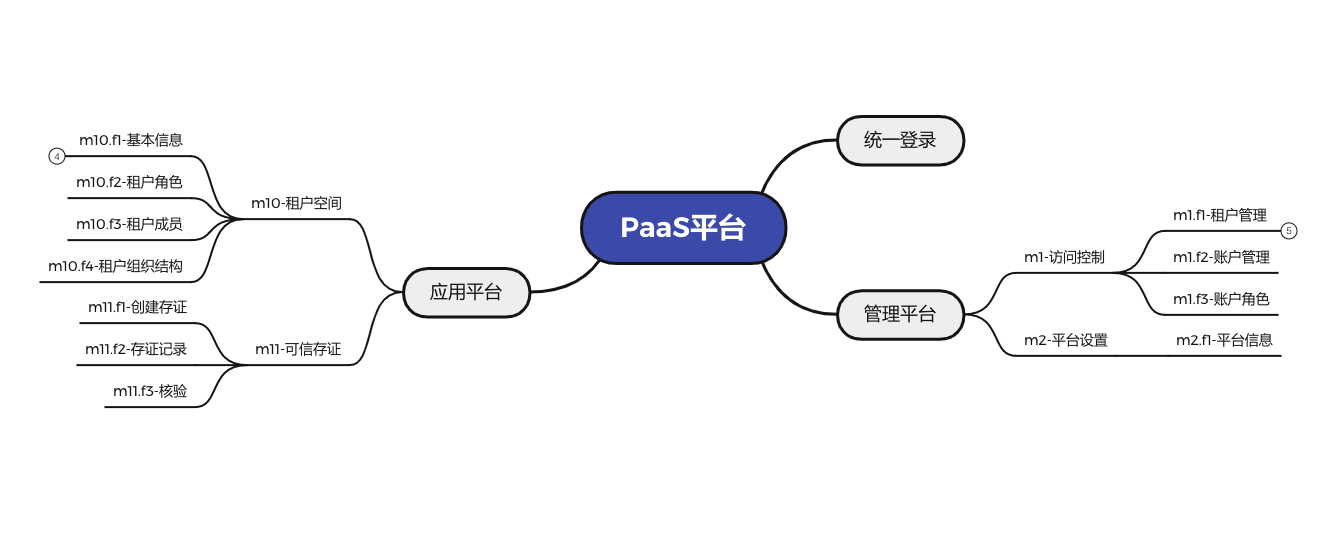
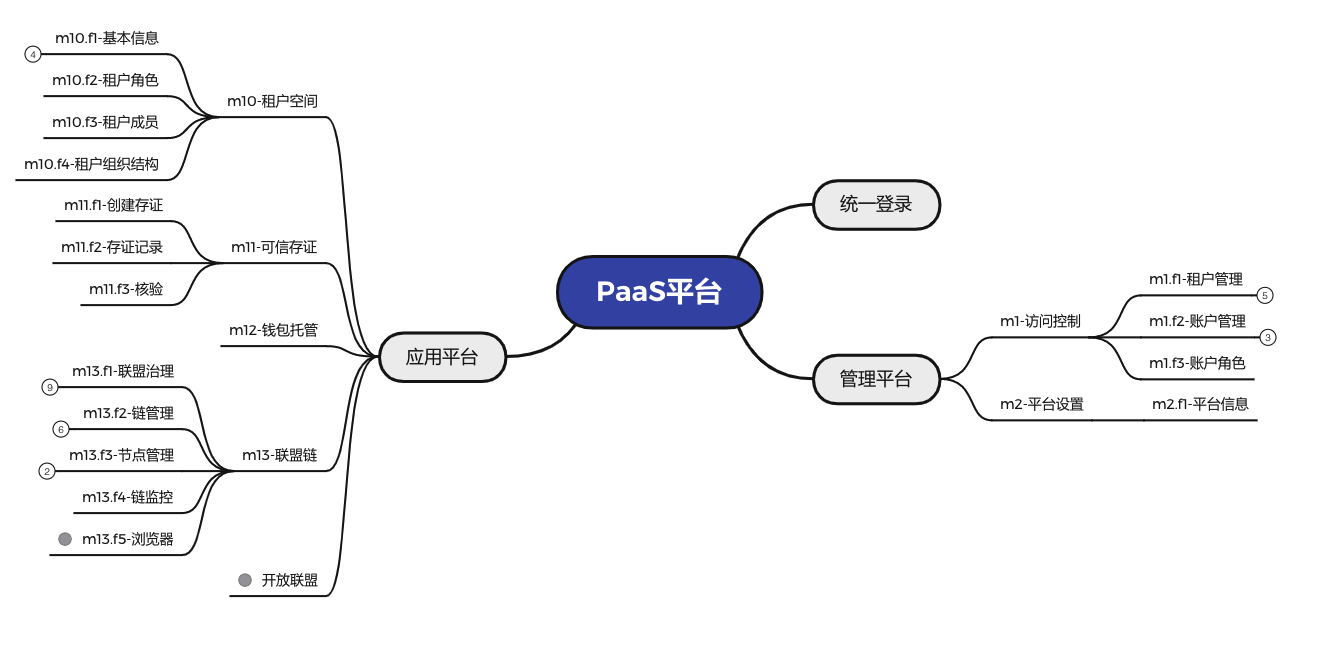
docs: init baas service

diff --git a/docs/qilin-baas/index.md b/docs/qilin-baas/index.md
@@ -1,0 +1,81 @@
+# Qilin-BaaS 联盟链服务
+
+## 一、设计概述
+
+联盟链服务提供链服生态中联盟治理，链与节点管理与监控的基础服务，给客户提供自建底层区块链及节点的能力，是链服平台中所有区块链服务都会依赖的核心服务。
+
+### 功能概述
+
+系统主要功能包括：
+
+- 联盟治理：
+    - 联盟管理
+    - 创建联盟
+    - 加入联盟
+
+- 链管理：
+    - 链列表
+    - 创建链
+    - 导入链与节点
+
+- 节点管理：
+    - 节点列表
+    - 创建节点
+
+- 链监控：
+
+- 浏览器：
+
+![联盟链服务功能列表](../../images/qilin/baas/qilin-baas-feature.jpg)
+
+使⽤者包括：
+
+- 链服平台中所有区块链服务
+
+### ⾮功能约束
+
+……系统未来预计⼀年⽤户量达到……， ⽇订单量达到……， ⽇PV达到……， 图⽚数量达到 ……。
+
+1. 查询性能⽬标：平均响应时间<300ms，95%响应时间<500ms，单机TPS>100； 2. 下单性能⽬标：平均响应时间<800ms，95%响应时间<1000ms，单机TPS>30；
+
+3. ……性能⽬标：平均响应时间<800ms，95%响应时间<1000ms，单机TPS>30；
+
+4. 系统核⼼功能可⽤性⽬标：>99.97%；
+
+5. 系统安全性⽬标：系统可拦截…… 、……、……攻击， 密码数据散列加密， 客户端数据 HTTPS加密，外部系统间通信对称加密；
+
+6. 数据持久化⽬标：>99.99999%。
+
+## 二、详细设计
+
+系统上线时预计部署在公司标准K8S集群中，包含2个deployment服务，1个job服务，占用5～7个pod资源，RDS-MYSQL中占用1个数据库，RDS-REDIS中占用1个数据库，部署2个联盟⼦系统，和链服生态系统中的账户服务交互，用户部署链时会使用外部第三⽅云服务商（阿里云、华为云、AWS）的云服务器服务。
+
+### 系统架构
+
+![联盟链服务系统架构图](../../images/qilin/baas/qilin-baas.png)
+
+### 最简服务流程（MVP）
+
+```
+1. tenant admin 发起创建一个联盟
+2. tenant admin 输入待导入链的基本属性信息，一键导入链及其节点
+```
+
+### 创建联盟场景系统流程
+
+tenant admin 发起创建一个联盟（baas aggr CreateUnion）
+
+```
+1.1 获取 tenant admin 企业认证信息（iam service ListTenantsKYC），确保企业已实名认证
+1.2 创建联盟信息（baas service CreateUnion）
+```
+
+### 导入链与节点场景系统流程
+
+tenant admin 输入待导入链的基本属性信息，一键导入链及其节点
+
+```
+2.1 获取所支持链的种类，及其导入时需要提交的基本信息
+2.2（第一步）选择链，填写所需的基本信息（baas aggr ImportChain）
+2.3（第二步）
+```

diff --git a/index.rst b/index.rst
@@ -33,21 +33,32 @@ Qilin将区块链应用开发标准化，按照部署、配置、开发智能合
 账户服务
 >>>>>>>>>>>>>>>>>>>>>>>>>>>>>>>>>>>>>>>>>>>>>>>>>>
 `Qilin-IAM <./docs/qilin-iam/index.html>`_
+账户服务提供链服生态中用户、租户、认证、授权的基础服务，不是独立的业务产品，是链服平台中所有其他业务都会依赖的核心服务。
+
+
+联盟链服务
+>>>>>>>>>>>>>>>>>>>>>>>>>>>>>>>>>>>>>>>>>>>>>>>>>>
+`Qilin-BaaS <./docs/qilin-baas/index.html>`_
+联盟链服务提供链服生态中联盟治理，链与节点的管理与监控的基础服务，给客户提供自建底层区块链及节点的能力，是链服平台中所有区块链服务都会依赖的核心服务。
+
 
 钱包服务
 >>>>>>>>>>>>>>>>>>>>>>>>>>>>>>>>>>>>>>>>>>>>>>>>>>
 `Qilin-Wallet <./docs/qilin-wallet/index.html>`_
 钱包服务给用户提供钱包密钥托管服务及代理签名服务。用户可以轻松的调用“创建钱包”或者“批量创建钱包”的接口以获取钱包地址，钱包的私钥将被托管在本服务中。使用托管的钱包发送交易或其他操作时，可由系统进行代理签名。
 
+
 交易服务
 >>>>>>>>>>>>>>>>>>>>>>>>>>>>>>>>>>>>>>>>>>>>>>>>>>
 `Qilin-Transaction <./docs/qilin-transaction/index.html>`_
 交易服务提供给用户往区块链调用合约的http接口。本服务提供给用户两类接口，一类是通用的调用合约的接口，用户需要传入合约地址，被调用的合约方法名，以及调用参数来发送交易；另一类接口是定制的调用合约的接口，将常用的合约的方法抽象出来，用户无需关心具体被调用的方法名，仅需要传入合约地址以及定制的参数即可完成对合约方法的调用。
 
+
 可信存证服务平台
 >>>>>>>>>>>>>>>>>>>>>>>>>>>>>>>>>>>>>>>>>>>>>>>>>>
 `Qilin-Evidence <./docs/qilin-evidence/index.html>`_
 存证服务提供给用户提供可信数据存储、核验服务。使用本服务的租户必须通过企业4要素实名认证，存证数据将被存储在域乎可信存证链上，上链时间根据国标《电子数据存证技术规范》提供可信时间戳。
+
 
 溯源服务平台
 >>>>>>>>>>>>>>>>>>>>>>>>>>>>>>>>>>>>>>>>>>>>>>>>>>
@@ -65,6 +76,7 @@ Qilin将区块链应用开发标准化，按照部署、配置、开发智能合
 
    ./docs/qilin/quick-start.md
    ./docs/qilin-iam/index.md
+   ./docs/qilin-baas/index.md
    ./docs/qilin-wallet/index.md
    ./docs/qilin-transaction/index.md
    ./docs/qilin-evidence/index.md

diff --git a/docs/qilin-evidence/index.md b/docs/qilin-evidence/index.md
@@ -2,7 +2,7 @@
 
 ## 一、设计概述
 
-可信存证服务平台是链服生态中由域乎官方提供的可信存证服务，底层使用的是域乎可信存证联盟链，是直接提供给外部机构使用的业务产品，承担着公司创收的⽬标任务。
+可信存证服务平台是链服生态中由域乎官方提供的可信存证服务，底层使用的是域乎开放联盟链，是直接提供给外部机构使用的业务产品，承担着公司创收的⽬标任务。
 
 ### 业务流程
 
